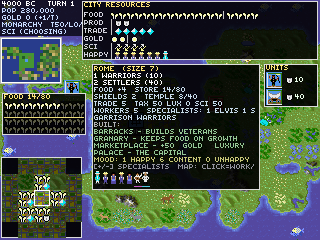
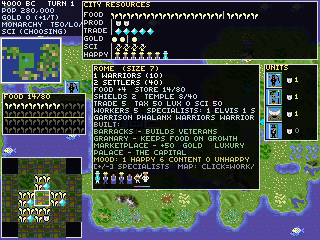
Implement Civ1/CivOne unit shield support, shown in the Units pane
Every unit a city builds is now homed there and costs 1 shield/turn of
support, deducted from production.  Under despotism/anarchy the first
SIZE units are free; under other governments every unit costs its shield.
Diplomats and caravans are free; settlers also eat food (1 under
despotism/anarchy, else 2).  A city that can't pay disbands its farthest
unit.  The Units pane now shows the city's supported units and each one's
maintenance cost instead of build cost.

Adds the unit HOME slot (+ persistence), city-shield-support /
city-settler-food / city-unit-support-list, and 9 tests (1036 checks).

Changed region(s): [[0.6875, 0.3792, 1.0, 0.6125], [0.4375, 0.4667, 0.6562, 0.525], [0.9062, 0.3208, 0.9375, 0.35]]

diff --git a/README.md b/README.md
@@ -123,9 +123,17 @@ On the left, a **Food Store** pane is the granary box: a grid of food icons for
 the food banked toward the next citizen (bright = stored, dim = still needed),
 with a yellow line at the half level a granary keeps when the city grows.
 
-Down the right edge, a **Units** pane lists the units the city can build, each as
-its sprite (on the nation's colour) with a shield icon and its build cost in
-shields — click one to set it building.
+Down the right edge, a **Units** pane lists the units the city **supports** (its
+home units), each as its sprite on the nation's colour with its per-turn shield
+**maintenance** (a shield icon and the cost; diplomats, caravans, and the units
+within a despotism/anarchy city's free allowance show 0).
+
+Unit support follows Civ1: every unit a city builds is **homed** there and costs
+**1 shield per turn**, deducted from the city's production. Under despotism and
+anarchy the first *size* units are free; under every other government every unit
+costs its shield. Diplomats and caravans are always free, and settlers also eat
+food (1 under despotism/anarchy, 2 otherwise). If a city can no longer pay for
+its army, the **unit farthest from home is disbanded**.
 
 Along the bottom of the panel runs a **population bar**, one little citizen
 sprite per inhabitant (the original SP257 figures): happy, content and unhappy
